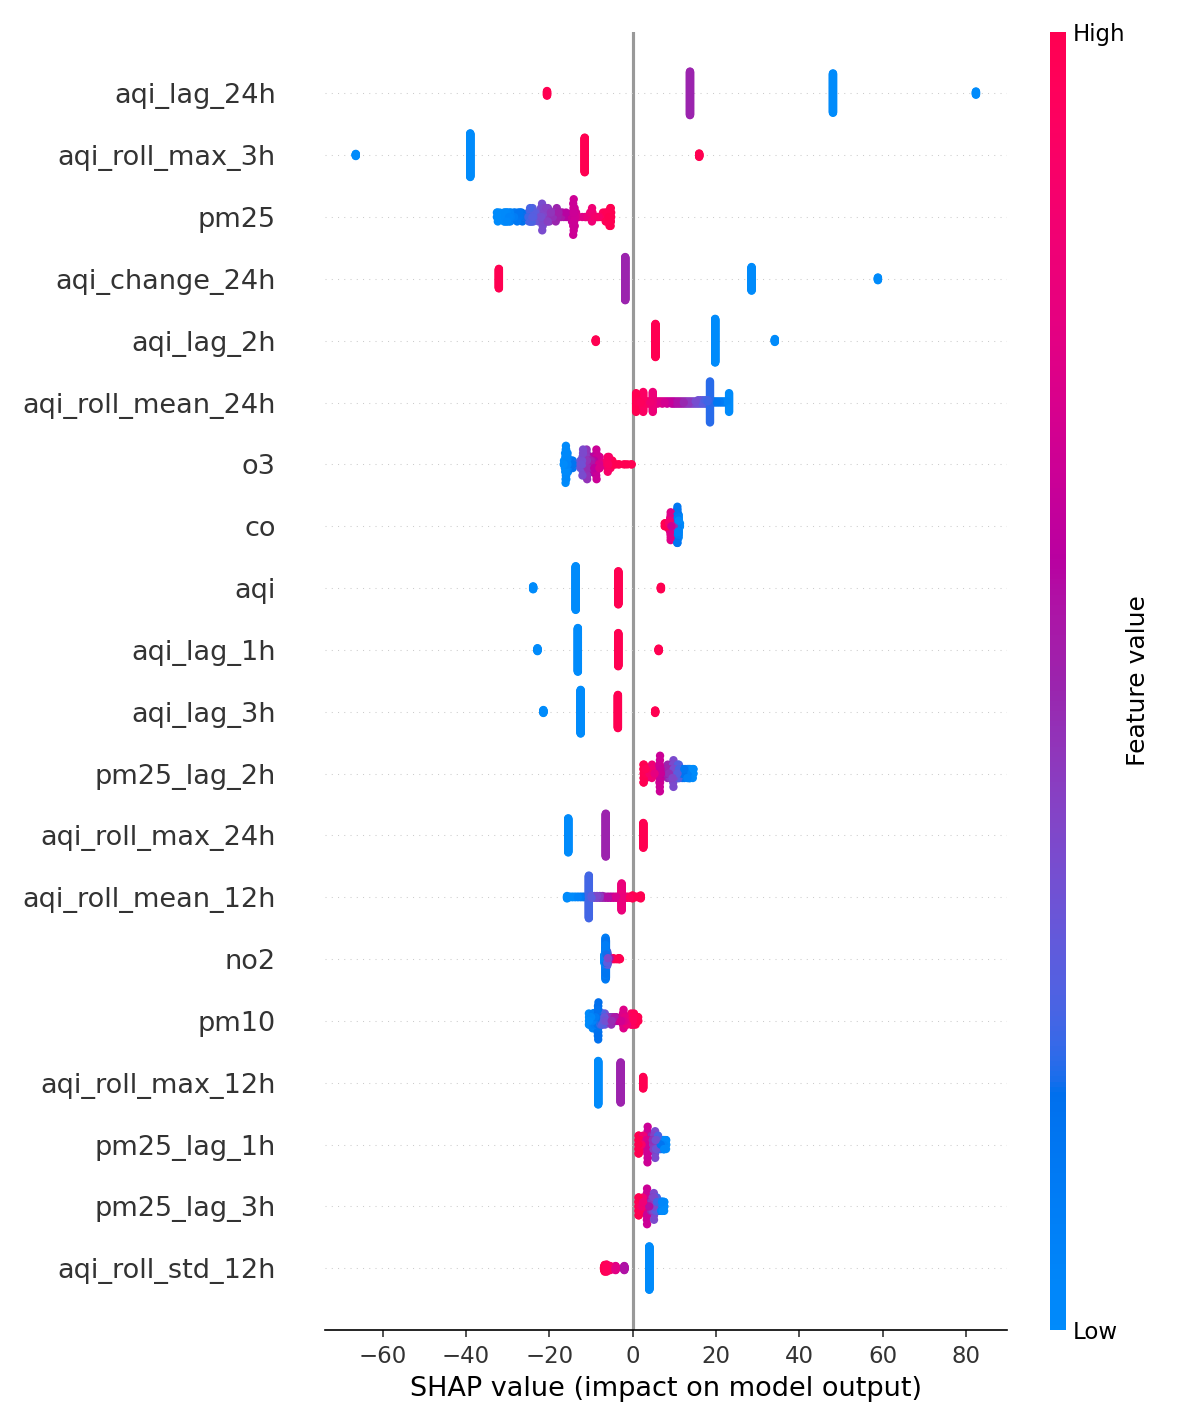
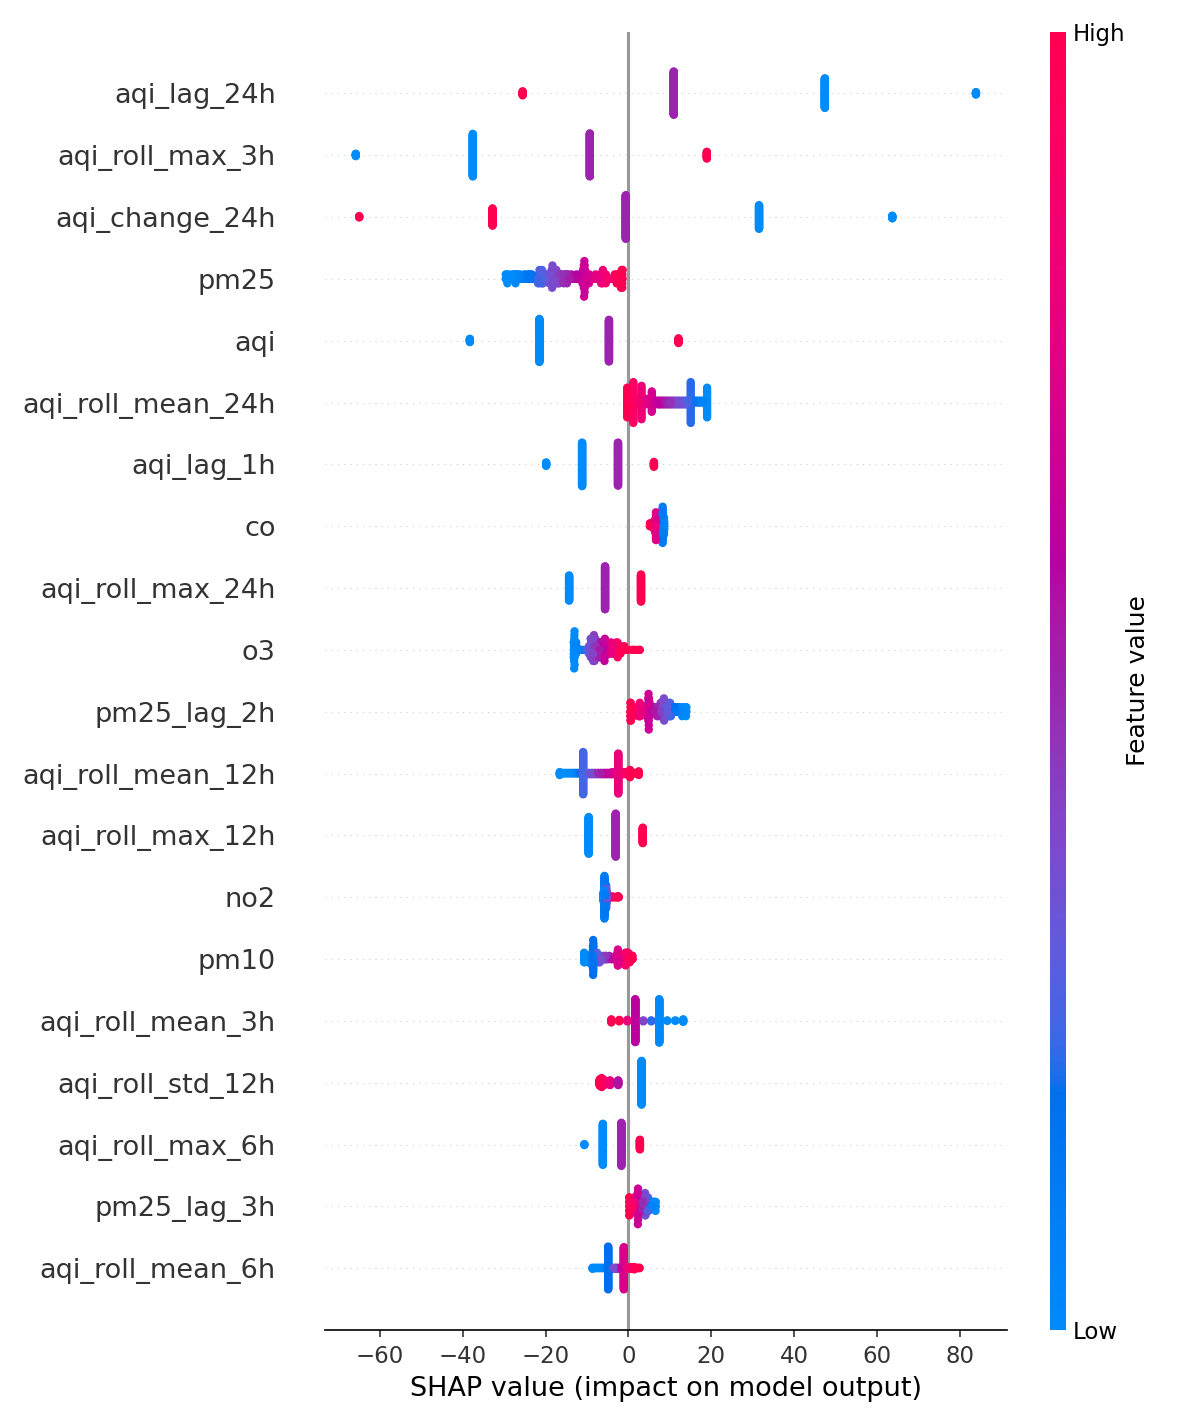
Add recomputation of lag and rolling features to training pipeline
Update training pipeline to recompute lag, rolling, and target features directly from historical data, resolving NaN issues and enabling full dataset utilization.

Replit-Commit-Author: Agent
Replit-Commit-Session-Id: c2b47184-0271-487d-b550-b5868c55debb
Replit-Commit-Checkpoint-Type: full_checkpoint
Replit-Commit-Event-Id: 65e54b9b-a08c-4497-a7da-390a04929ea6
Replit-Commit-Screenshot-Url: https://storage.googleapis.com/screenshot-production-us-central1/c291a614-6117-4d97-80bb-c11f317be26c/c2b47184-0271-487d-b550-b5868c55debb/X6tl1vO
Replit-Helium-Checkpoint-Created: true

diff --git a/pipelines/training_pipeline.py b/pipelines/training_pipeline.py
@@ -52,18 +52,52 @@ def run_training():
     # ── 2. Fetch Training Data ───────────────────────────────────────────────
     fg = fs.get_feature_group("aqi_features", version=1)
     df = fg.read()
-    df = df.sort_values("timestamp")
+    df = df.sort_values("timestamp").reset_index(drop=True)
 
-    # Define features and multi-horizon targets
-    target_cols = ["target_aqi_24h", "target_aqi_48h", "target_aqi_72h"]
-    drop_cols   = ["timestamp", "weather_main"] + target_cols
+    print(f"📥 Raw rows from Feature Store: {len(df)}")
+
+    # ── 2a. Recompute lag/rolling/target columns from the full time series ───
+    # The backfill pipeline stored NaN for these columns because individual
+    # hourly snapshots have no history. We recompute them here from the
+    # sorted series so that all ~8,400 historical rows become usable.
+
+    for lag in [1, 2, 3, 6, 12, 24]:
+        df[f"aqi_lag_{lag}h"]  = df["aqi"].shift(lag)
+        df[f"pm25_lag_{lag}h"] = df["pm25"].shift(lag)
+
+    for window in [3, 6, 12, 24]:
+        # shift(1) avoids leaking the current value into the rolling window
+        rolled = df["aqi"].shift(1).rolling(window)
+        df[f"aqi_roll_mean_{window}h"] = rolled.mean()
+        df[f"aqi_roll_std_{window}h"]  = rolled.std()
+        df[f"aqi_roll_max_{window}h"]  = rolled.max()
+
+    df["aqi_change_1h"]  = df["aqi"].diff(1)
+    df["aqi_change_3h"]  = df["aqi"].diff(3)
+    df["aqi_change_24h"] = df["aqi"].diff(24)
+
+    # Targets: future AQI values
+    df["target_aqi_24h"] = df["aqi"].shift(-24)
+    df["target_aqi_48h"] = df["aqi"].shift(-48)
+    df["target_aqi_72h"] = df["aqi"].shift(-72)
+
+    # ── 2b. Build feature/target arrays ─────────────────────────────────────
+    target_cols  = ["target_aqi_24h", "target_aqi_48h", "target_aqi_72h"]
+    drop_cols    = ["timestamp", "weather_main"] + target_cols
     feature_cols = [c for c in df.columns if c not in drop_cols]
 
-    # Only drop rows where targets or core numeric features are missing
-    required_cols = target_cols + ["aqi", "pm25", "aqi_lag_1h", "aqi_roll_mean_3h"]
+    # Drop rows where targets are NaN (last 72 rows) or core inputs are NaN
+    required_cols = target_cols + ["aqi", "pm25"]
     df = df.dropna(subset=required_cols)
-    # Fill remaining NaNs (e.g. weather cols) with column medians, then 0 for all-NaN cols
-    df[feature_cols] = df[feature_cols].fillna(df[feature_cols].median(numeric_only=True)).fillna(0)
+
+    # Fill any remaining NaNs (e.g. first few rows missing early lags, weather cols)
+    df[feature_cols] = (
+        df[feature_cols]
+        .fillna(df[feature_cols].median(numeric_only=True))
+        .fillna(0)
+    )
+
+    print(f"✅ Usable rows after recomputing features: {len(df)}")
 
     X = df[feature_cols].values
     y = {